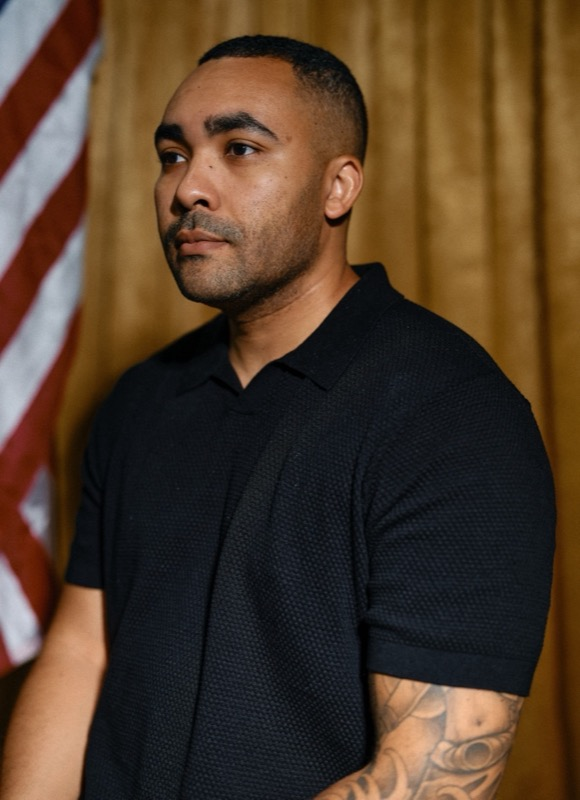
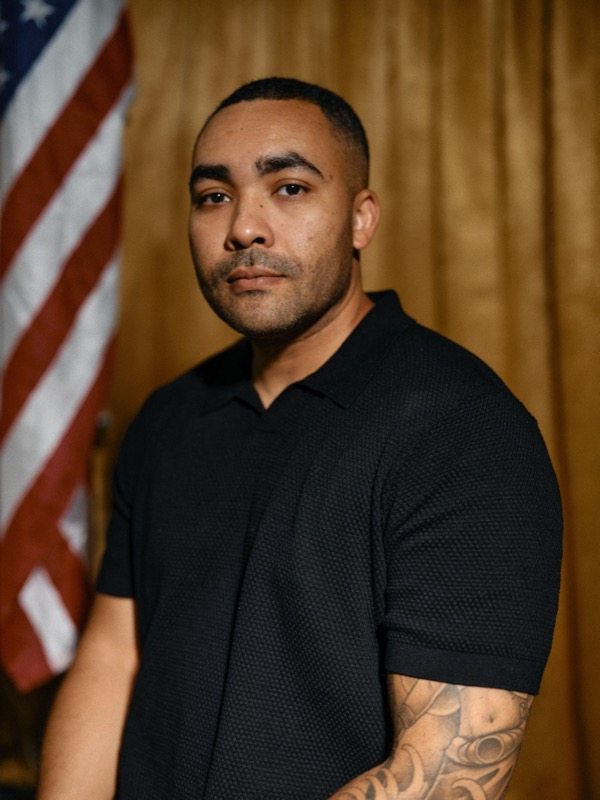
Update team info and mobile image positioning
- Update Daniele Anderson's LinkedIn URL
- Update Kyle Bibby's headshot photo
- Adjust hero image position on mobile (homepage & our-work)
- Fix pillar card images to show full heads (object-top)

diff --git a/src/app/(main)/about/page.tsx b/src/app/(main)/about/page.tsx
@@ -40,7 +40,7 @@ const team = [
     bio: 'Daniele is a nationally recognized strategist, historian, and researcher focused on strengthening healthcare access, data-informed advocacy, and institutional accountability. She is deeply committed to building more humane, effective, and equitable systems, particularly for veterans and historically underserved communities.\n\nShe has held senior leadership roles in research, policy, and strategy at Color of Change and Black Economic Alliance Foundation, where she helped translate data and community insight into institutional reform and public impact.\n\nA former Surface Warfare Officer, Daniele served five years in the U.S. Navy. She is a graduate of the United States Naval Academy and holds a Master of Arts from Columbia University.',
     image: '/images/team/daniele-anderson.jpg',
     initials: 'DA',
-    linkedin: 'https://www.linkedin.com/in/danieleanderson/',
+    linkedin: 'https://www.linkedin.com/in/daniele-anderson/',
   },
   {
     name: 'Yolanda Hoskey',

diff --git a/src/app/(main)/our-work/page.tsx b/src/app/(main)/our-work/page.tsx
@@ -584,7 +584,7 @@ export default function OurWorkPage() {
         <img
           src="/images/our-work-banner.jpg"
           alt="Navy sailors in formation representing the service and sacrifice of Black veterans"
-          className="absolute inset-0 w-full h-full object-cover"
+          className="absolute inset-0 w-full h-full object-cover object-[65%_center] md:object-center"
         />
         <div className="absolute inset-0 bg-gradient-to-b from-black/30 to-black/70" />
         <div

diff --git a/src/components/sections/PillarsSection.tsx b/src/components/sections/PillarsSection.tsx
@@ -358,7 +358,7 @@ function PillarCard({ number, title, description, cta, href, bgColor, accentColo
             <img
               src={image}
               alt={imageAlt || title}
-              className="w-full h-52 object-cover block"
+              className="w-full h-52 object-cover object-top block"
             />
           </div>
         )}

diff --git a/src/components/sections/Hero.tsx b/src/components/sections/Hero.tsx
@@ -116,7 +116,7 @@ export function Hero({
             fill
             priority
             quality={85}
-            className="object-cover object-bottom"
+            className="object-cover object-[35%_bottom] md:object-bottom"
             sizes="100vw"
           />
         )}
